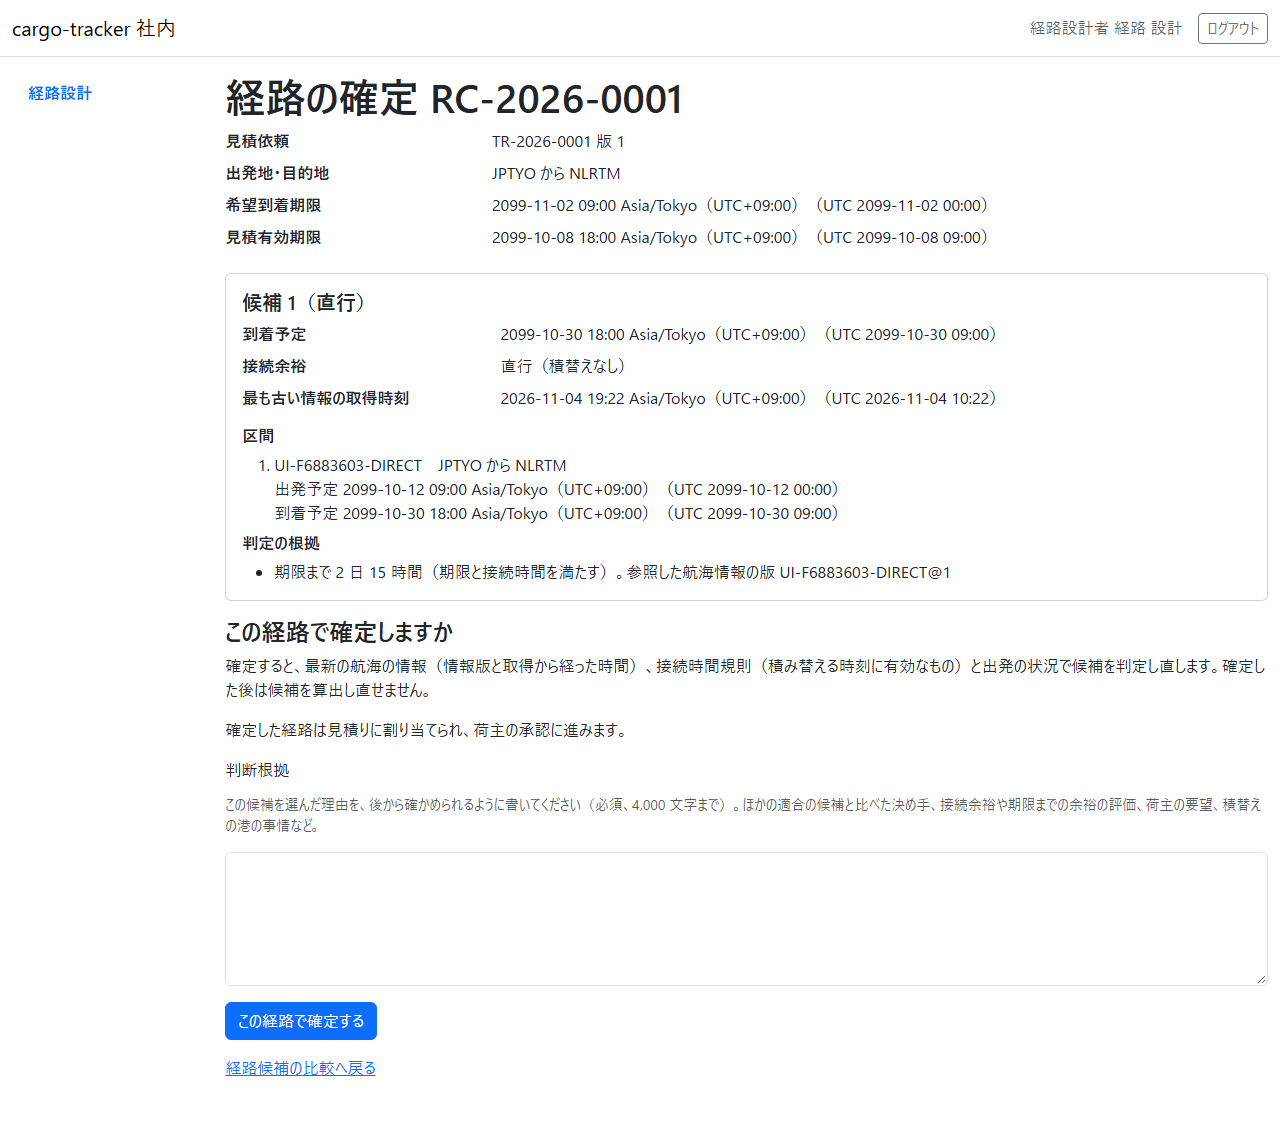
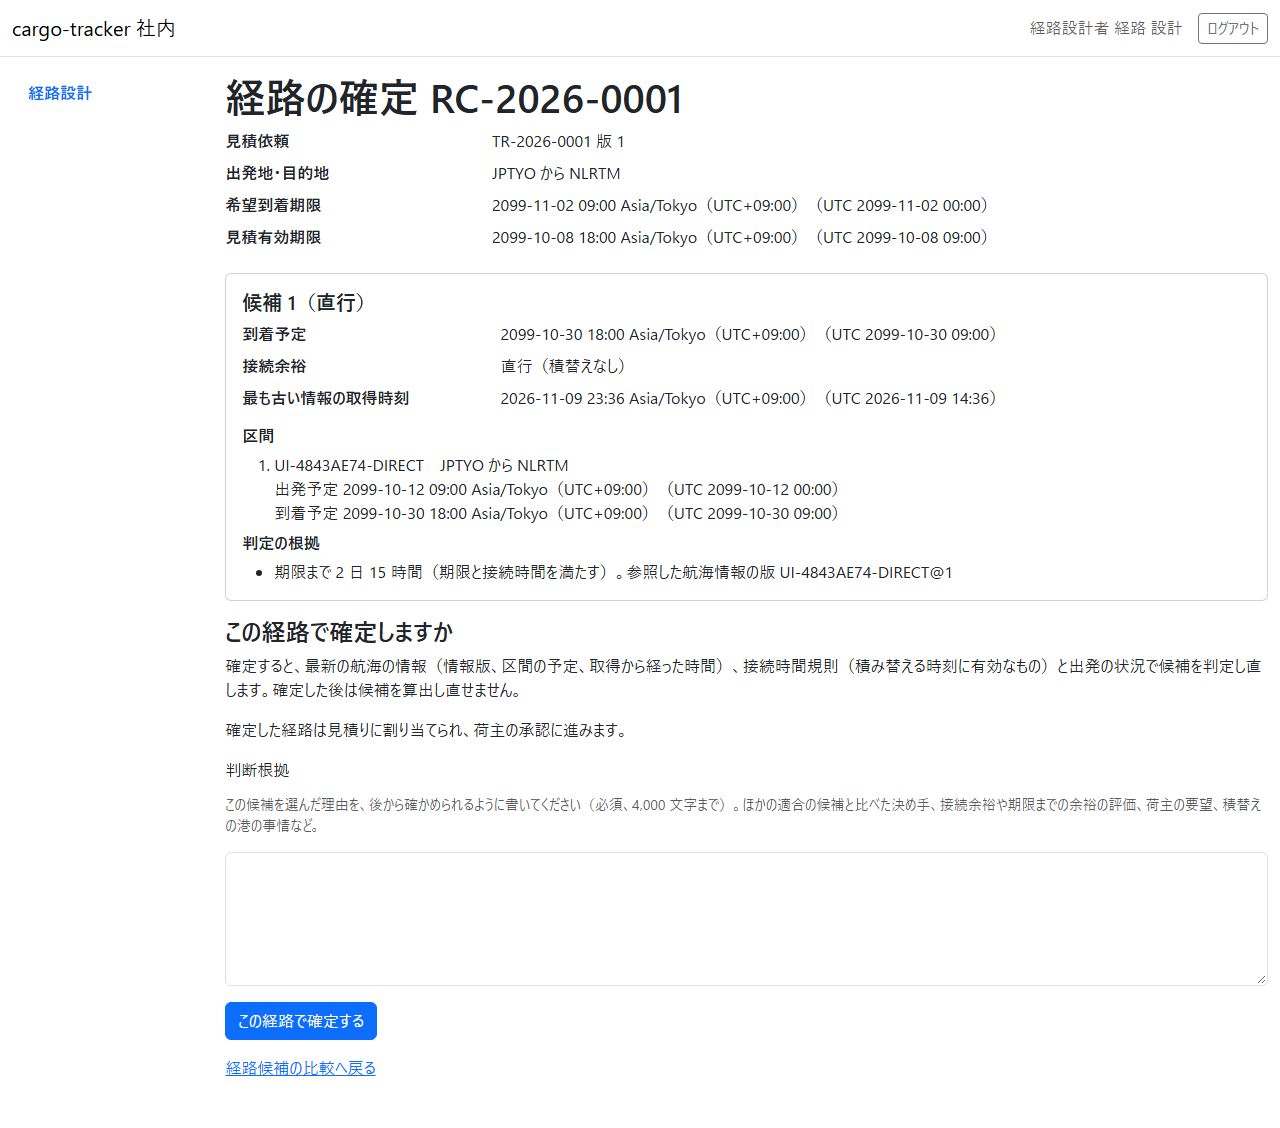
docs(manual): 同じ情報版でも区間の予定が変わると確定できないことを 8 章と S-07 の注に書く（Bolt 39e2 ステップ 5）
Claude-Session: https://claude.ai/code/session_01GYBUMiQNsZ1DuDCs7LKGFo

diff --git a/docs/manual/08-経路設計.md b/docs/manual/08-経路設計.md
@@ -4,7 +4,7 @@ title: "8 章 経路設計"
 description: "荷主が見積りに回答して詳細経路設計を依頼した後に、経路設計者が経路の候補を算出して比べ、判断根拠を残して経路を確定する画面です。"
 tags: [manual,cargo-tracker]
 status: draft
-generated: { by: anthropic/claude-opus-5-5, at: 2026-11-09T12:54:05Z }
+generated: { by: anthropic/claude-opus-5-5, at: 2026-11-09T16:14:44Z }
 ---
 
 # 8 章 経路設計
@@ -116,7 +116,7 @@ generated: { by: anthropic/claude-opus-5-5, at: 2026-11-09T12:54:05Z }
 | :--- | :--- | :--- |
 | ① | 案件の情報 | 見積依頼・出発地・目的地・希望到着期限・見積有効期限 |
 | ② | 選んだ候補 | 到着予定・接続余裕・区間・判定の根拠（参照した航海情報の版を含む） |
-| ③ | この経路で確定しますか | 確定するときに、最新の航海の情報（情報版と取得から経った時間）、接続時間規則（積み替える時刻に有効なもの）と出発の状況で判定し直すこと、確定した後は候補を算出し直せないこと |
+| ③ | この経路で確定しますか | 確定するときに、最新の航海の情報（情報版、区間の予定、取得から経った時間）、接続時間規則（積み替える時刻に有効なもの）と出発の状況で判定し直すこと、確定した後は候補を算出し直せないこと |
 | ④ | 判断根拠 | この候補を選んだ理由（必須、4,000 文字まで）。ほかの適合の候補と比べた決め手、接続余裕や期限までの余裕の評価、荷主の要望など |
 | ⑤ | 「この経路で確定する」 | 確定します |
 
@@ -135,6 +135,6 @@ generated: { by: anthropic/claude-opus-5-5, at: 2026-11-09T12:54:05Z }
 - 判断根拠が空、または長すぎると確定できず、エラーが示されます。入力は残ります
 - ほかの経路設計者が先に同じ案件を更新していたときは、「ほかの経路設計者が先にこの案件を更新しました。最新の候補を確かめてください。」と示されます
 - 確定するときに、最初の区間が出発済みだったり（「最初の区間が出発済みのため確定できません。候補を再算出してください。」）、候補を算出した後に登録・変更された接続時間規則に合わなくなっていたりすると確定できません。候補を算出し直してください
-- 候補を算出した後に、候補の航海の情報が更新されていると（参照した航海情報の版が変わる）、確定できず、経路候補の比較に戻ります。「候補を算出した後に航海の情報が更新されたため確定できません。入力した判断根拠は保存していません。候補を再算出して判断し直してください。」と示されるので、「候補を再算出」して候補を比べ直し、判断根拠を入れ直して確定します（入れた判断根拠は残りません）
+- 候補を算出した後に、候補の航海の情報が更新されていると（参照した航海情報の版が変わるか、同じ版のまま区間の予定が変わる）、確定できず、経路候補の比較に戻ります。「候補を算出した後に航海の情報が更新されたため確定できません。入力した判断根拠は保存していません。候補を再算出して判断し直してください。」と示されるので、「候補を再算出」して候補を比べ直し、判断根拠を入れ直して確定します（入れた判断根拠は残りません）
 - 確定するときに、候補の航海の情報が取得から許容時間（いまは 24 時間）を過ぎていると、情報不足で確定できません。この画面に「航海の情報が取得から許容時間を過ぎているため確定できません（情報不足）。」と示されます。航海の情報の取込をデータ責任者に依頼し、取り込まれたら「候補を再算出」してください
 - 再設計要の案件は確定し直せません。URL から経路の確定を開いたとき、または画面を開いた後に再設計要になったときは、経路候補の比較に戻り「この案件の経路は再設計要のため確定し直せません。担当営業が荷主に新しい見積依頼を出すよう案内します。」と示されます（運用の決まりは [8.2](#82-経路候補の比較) の注意・補足）
